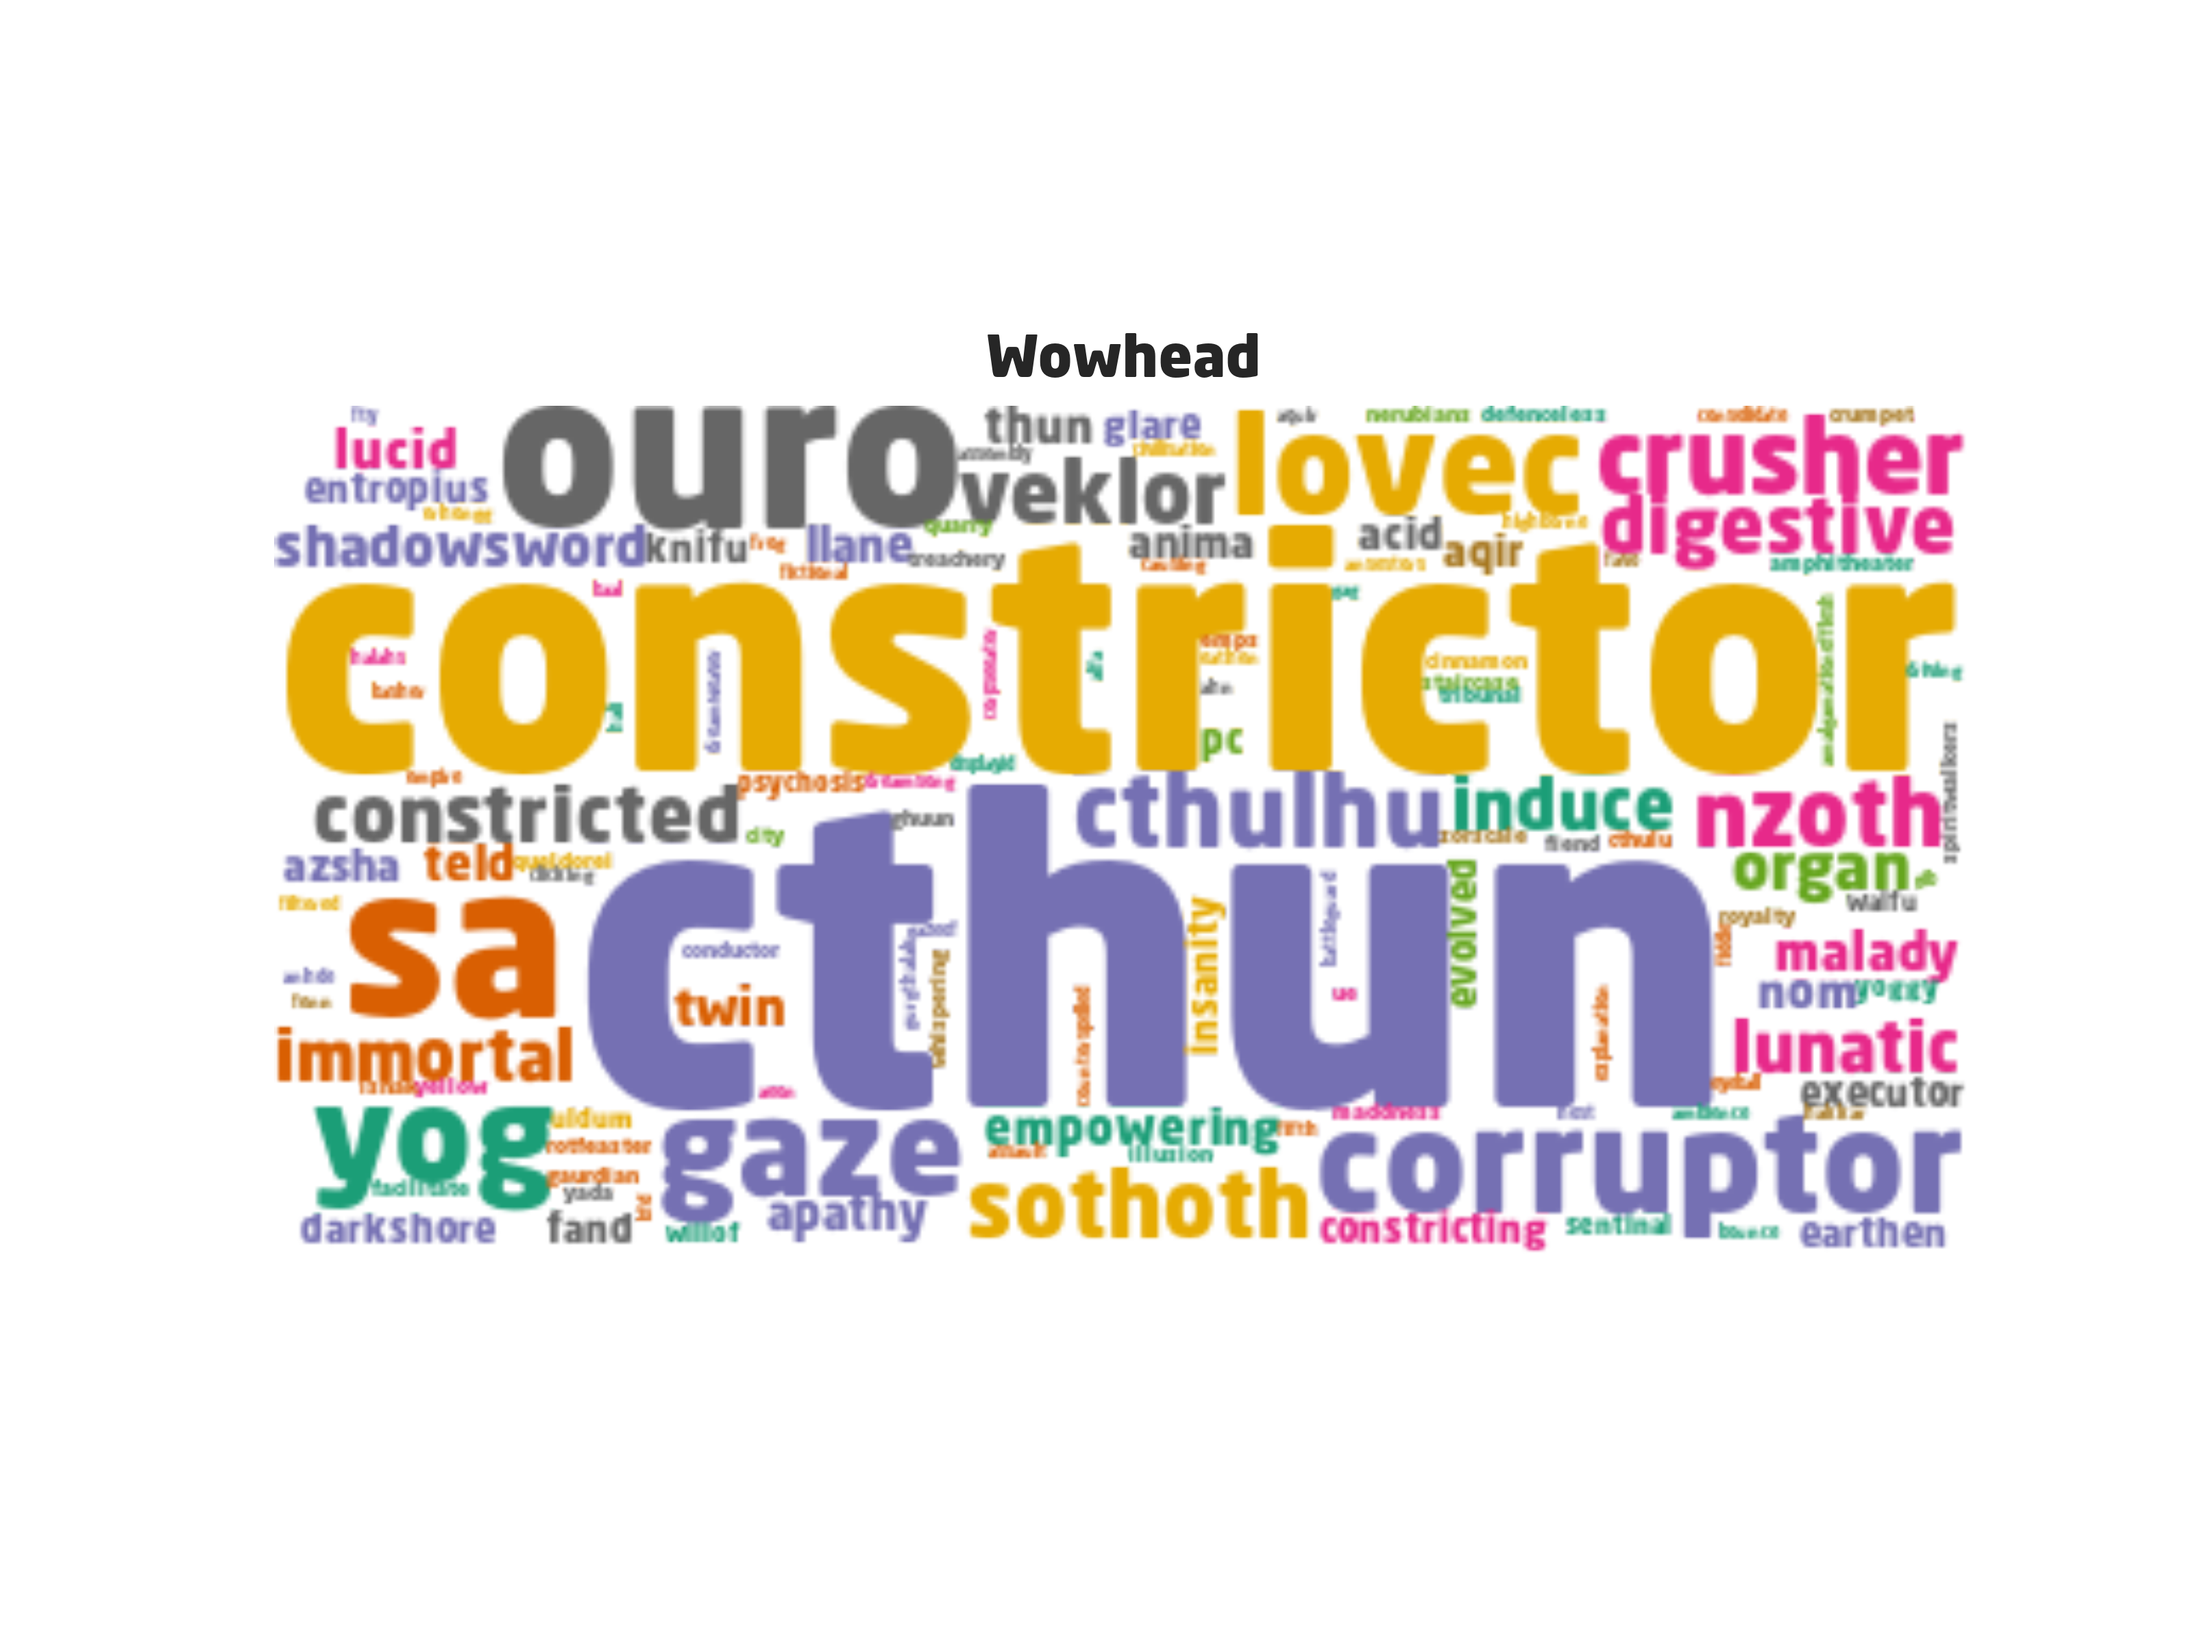
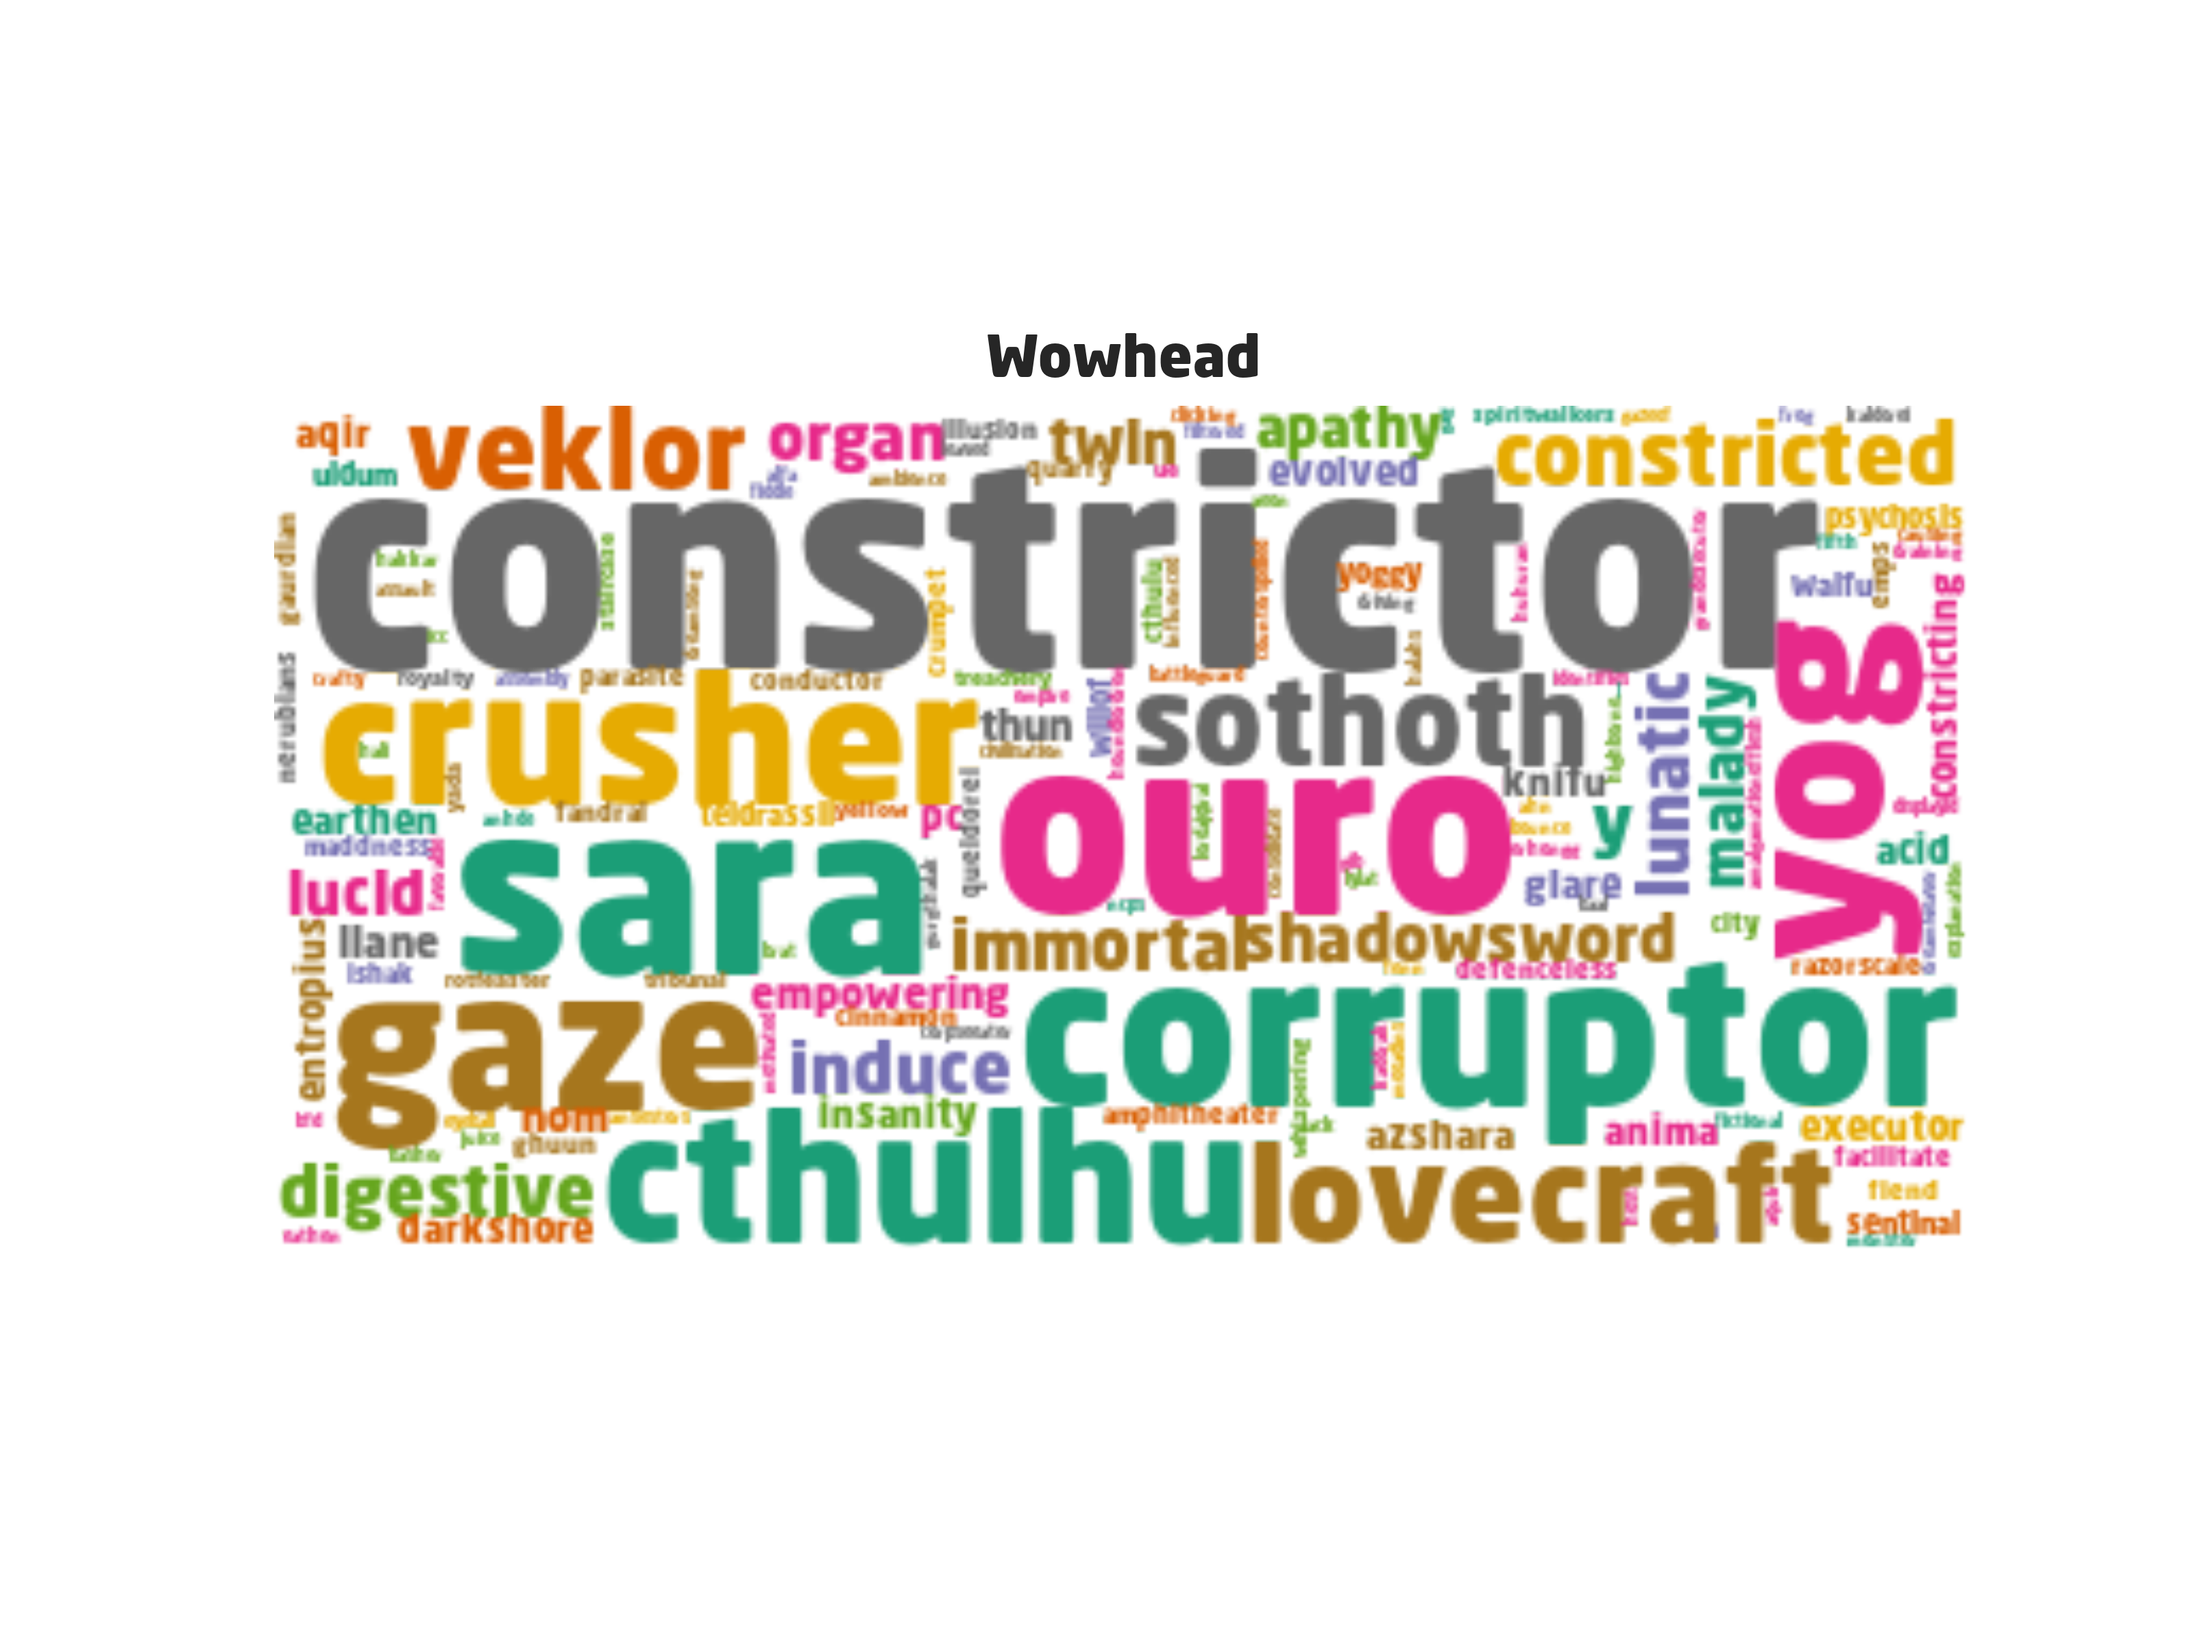
Unknown + new WC + masks

diff --git a/create_wordclouds.py b/create_wordclouds.py
@@ -46,8 +46,15 @@ for attr in attr_lookup:
 col = pickle.load(open(PATH_RES + 'Louvain_dict.json', 'rb'))
 for i in range(len(col)):
     filename = PATH_PLOTS + f'wc_com_{i}.png'
+    
+    # get mask if present
+    maskpath = f'./store/masks/com_mask_{i}.jpg'
+    if not os.path.isfile(maskpath):
+        maskpath = ''
+            
     disp_wordcloud(
         i, col,
         title=source.title(),
-        savepath=filename
+        savepath=filename, 
+        maskpath=maskpath, 
     )
